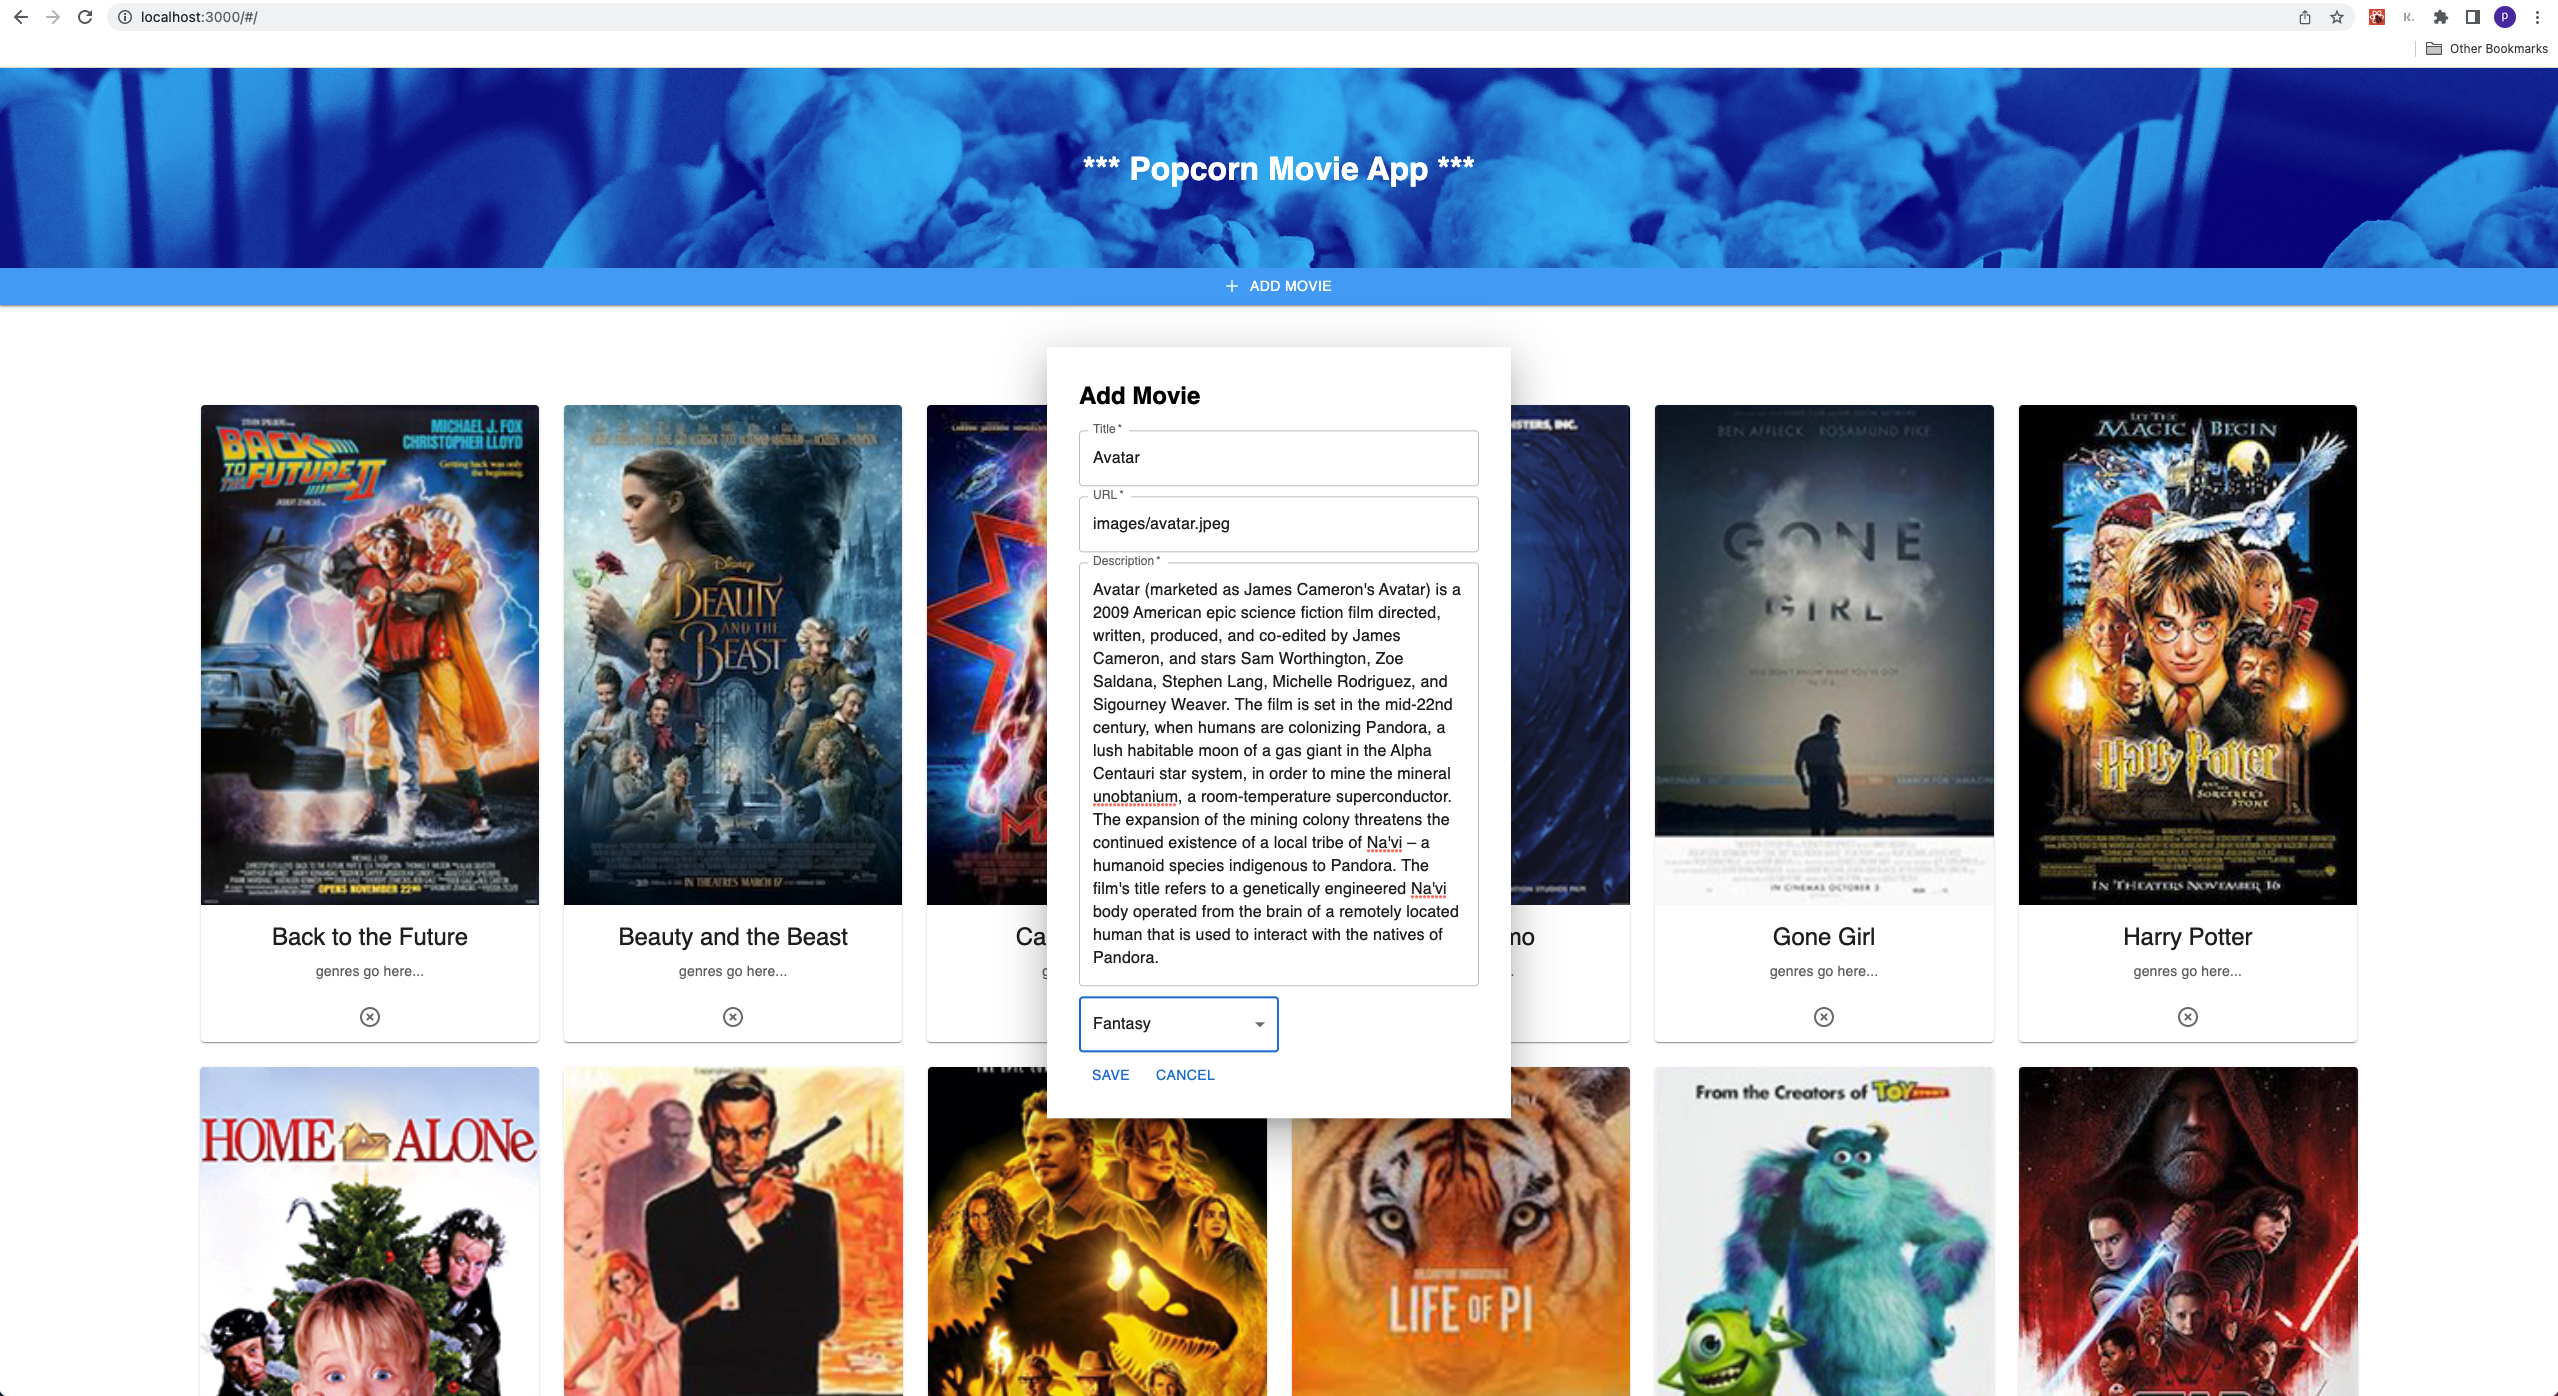
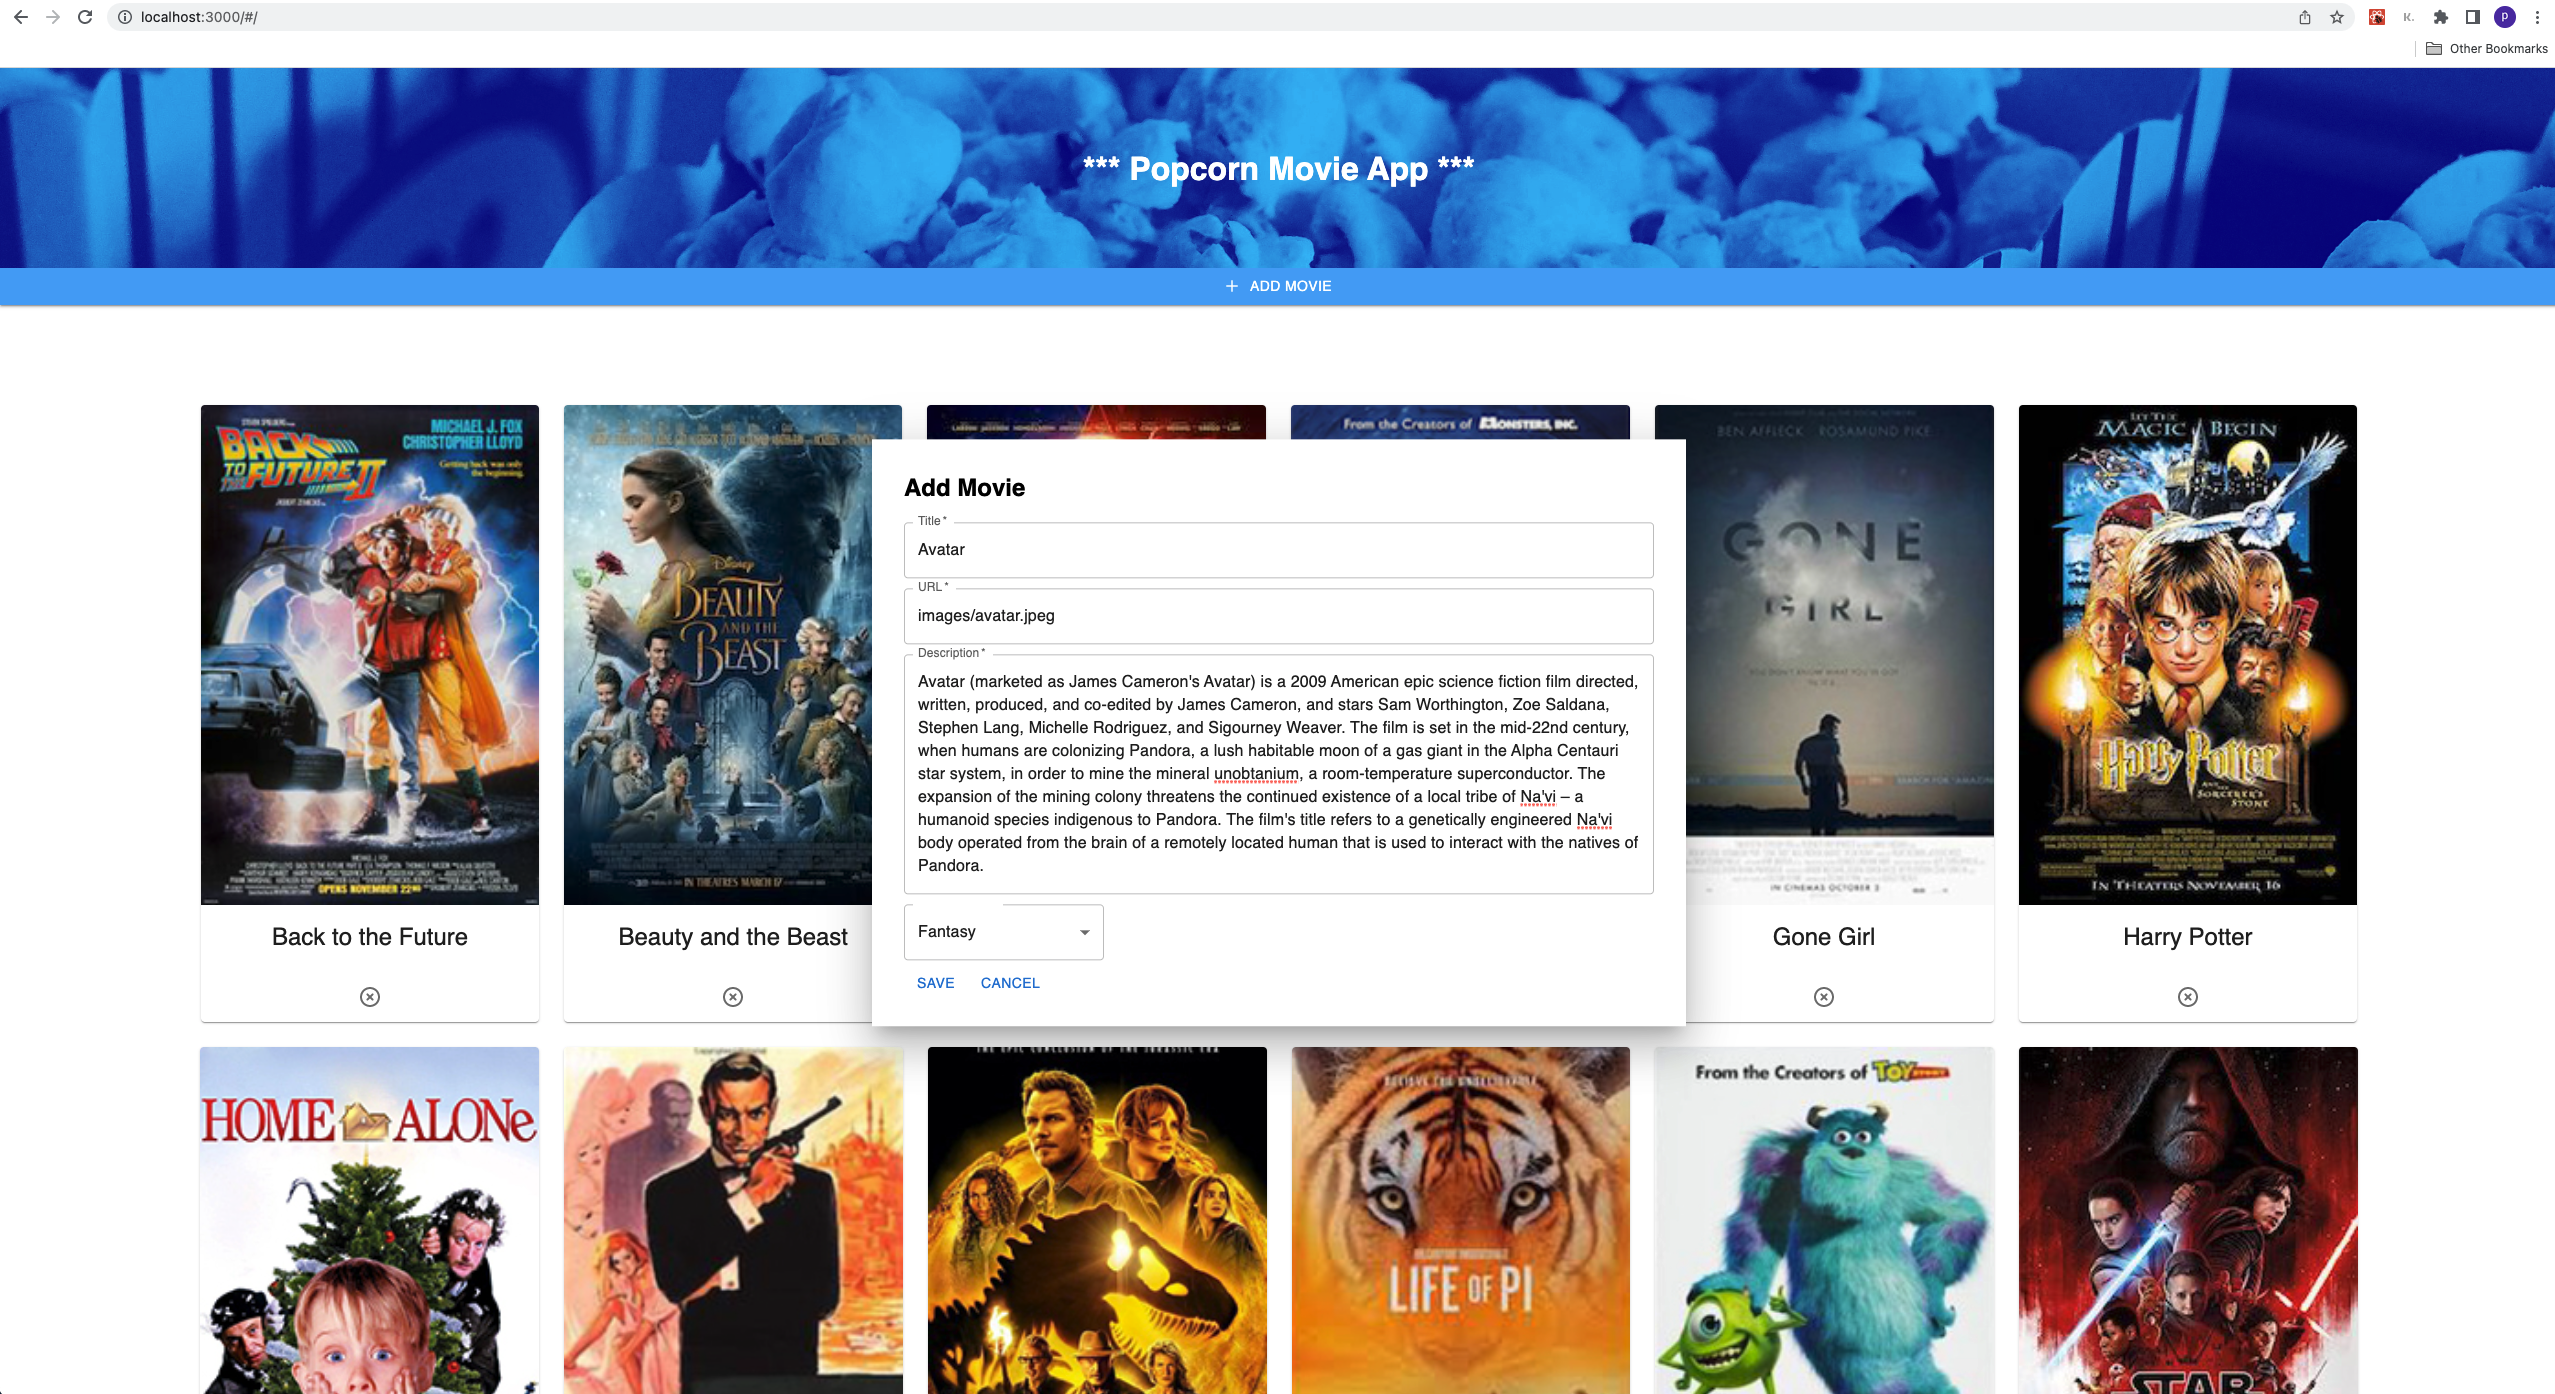
styled details and edits views, added screenshots, and updated readme

diff --git a/src/components/MovieDetails/MovieDetails.jsx b/src/components/MovieDetails/MovieDetails.jsx
@@ -7,6 +7,7 @@ import EditMovieButton from '../EditMovieForm/EditMovieButton';
 // Material-UI
 import { Box, TextField } from '@mui/material';
 import Modal from '@mui/material/Modal';
+import Button from '@mui/material/Button';
 
 const style = {
     position: 'absolute',
@@ -64,35 +65,43 @@ function MovieDetails() {
             hideBackdrop
             open={open}
             onClose={handleClose}
-            aria-labelledby="child-modal-title"
-            aria-describedby="child-modal-description"
+            aria-labelledby="parent-modal-title"
+            aria-describedby="parent-modal-description"
         >
             <Box sx={{ ...style, width: 750 }}>
                 <div className="details-container">
                     <div className="title-poster">
-                        <h3>{details.title}</h3>
+                        {/* <h3>{details.title}</h3> */}
                         <img
                             src={details.poster}
                             alt={details.title}
                         />
                     </div>
-
-                    {/* TODO: render this on one line */}
-                    <div>
-                        {genres.map((each, i) => (
-                            <p key={i} className="genre-item">{each.name}</p>
-                        ))}
-                    </div>
-                    <div className="description">
-                        <p>{details.description}</p>
-                    </div>
-                    <div className="back-btn">
+                    <div className="genre-description">
+                        {/* TODO: render this on one line and palette matches buttons */}
+                        <div className="genre-container">
+                            {genres.map((each, i) => (
+                                <p key={i} className="genre-item">{each.name}</p>
+                            ))}
+                        </div>
+                        <div>
+                            <p>{details.description}</p>
+                        </div>
+                        {/* <div className="back-btn">
                         <button onClick={() => history.push('/')} style={{ marginRight: 5 }}>Back To List</button>
+                    </div> */}
                     </div>
-                    <div className="edit-btn">
-                        {/* <button onClick={() => updateMovie(details.id)}>Edit</button> */}
-                        <EditMovieButton details={details.id} updateMovie={updateMovie} />
-                    </div>
+                </div>
+                <div className="buttons-container">
+                    <Button
+                        onClick={() => history.push('/')}
+                        style={{ marginRight: 5, marginBottom: 5 }}
+                        variant="contained"
+                    >
+                        Back To List
+                    </Button>
+                    {/* <button onClick={() => updateMovie(details.id)}>Edit</button> */}
+                    <EditMovieButton details={details.id} updateMovie={updateMovie} />
                 </div>
             </Box>
         </Modal>

diff --git a/src/components/EditMovieForm/EditMovieButton.jsx b/src/components/EditMovieForm/EditMovieButton.jsx
@@ -9,7 +9,7 @@ const style = {
     top: '50%',
     left: '50%',
     transform: 'translate(-50%, -50%)',
-    width: 400,
+    width: 750,
     bgcolor: 'background.paper',
     // border: '2px solid #000',
     boxShadow: 24,
@@ -32,15 +32,8 @@ function EditMovieButton() {
         <div>
             <Button
                 onClick={handleOpen}
-            // sx={{
-            //     borderRadius: 0,
-            //     backgroundColor: 'primary.light',
-            //     ':hover': {
-            //         bgcolor: 'primary.dark',
-            //     }
-            // }}
-            // variant="contained"
-            // startIcon={<AddIcon />}
+                variant="contained"
+                color="secondary"
             >
                 Edit
             </Button>
@@ -52,7 +45,7 @@ function EditMovieButton() {
                     aria-labelledby="child-modal-title"
                     aria-describedby="child-modal-description"
                 >
-                    <Box sx={{ ...style, width: 400 }}>
+                    <Box sx={{ ...style, width: 750 }}>
                         <h2 id="child-modal-title">Make Edits</h2>
                         <EditMovieForm handleClose={handleClose} />
                         {/* <Button onClick={handleClose}>Cancel</Button> */}

diff --git a/src/components/AddMovieForm/AddMovieButton.jsx b/src/components/AddMovieForm/AddMovieButton.jsx
@@ -12,7 +12,7 @@ const style = {
     top: '50%',
     left: '50%',
     transform: 'translate(-50%, -50%)',
-    width: 400,
+    width: 750,
     bgcolor: 'background.paper',
     // border: '1px solid #000',
     boxShadow: 24,
@@ -70,7 +70,7 @@ function AddMovieButton() {
                     aria-labelledby="child-modal-title"
                     aria-describedby="child-modal-description"
                 >
-                    <Box sx={{ ...style, width: 400 }}>
+                    <Box sx={{ ...style, width: 750 }}>
                         <h2 id="child-modal-title">Add Movie</h2>
                         {/* <p id="child-modal-description">
                             Lorem ipsum, dolor sit amet consectetur adipisicing elit.

diff --git a/src/components/EditMovieForm/EditMovieForm.jsx b/src/components/EditMovieForm/EditMovieForm.jsx
@@ -137,9 +137,9 @@ function EditMovie({ handleClose }) {
                     ))}
                 </select><br /> */}
                 {/* <input type="submit" value="Save" style={{ marginRight: 5 }} /> */}
-                <Button type="submit" value="Save" style={{ marginRight: 5 }}>Save</Button>
+                <Button type="submit" value="Save" style={{ marginRight: 5 }} variant="contained" color="secondary">Save</Button>
                 {/* <Button onClick={() => history.push(`/details/${details.id}`)}>Cancel</Button> */}
-                <Button onClick={handleClose}>Cancel</Button>
+                <Button onClick={handleClose} variant="contained" color="secondary">Cancel</Button>
 
             </form>
         </div>

diff --git a/src/components/AddMovieForm/AddMovieForm.jsx b/src/components/AddMovieForm/AddMovieForm.jsx
@@ -126,7 +126,7 @@ function AddMovieForm({ handleClose }) {
                     required
                     labelId="demo-simple-select-label"
                     id="demo-simple-select"
-                    // label="Select Genre"
+                    label="Select Genre"
                     onChange={(event) => setNewMovie({ ...newMovie, genre_id: event.target.value })}
                     style={{ marginBottom: 5 }}
                     sx={{ width: 200 }}

diff --git a/src/components/MovieDetails/MovieDetails.css b/src/components/MovieDetails/MovieDetails.css
@@ -12,3 +12,29 @@
     border-radius: 25px;
     font-size: small;
 }
+
+.buttons-container {
+    display: flex;
+    flex-flow: row;
+    justify-content: flex-end;
+}
+
+.details-container {
+    display: flex;
+    flex-direction: row;
+    margin-bottom: 10px;
+}
+
+.genre-description {
+    margin-left: 20px;
+}
+
+.genre-container {
+    display: flex;
+    flex-direction: row;
+    justify-content: flex-start;
+}
+
+.genre-item {
+    margin-right: 5px;
+}

diff --git a/README.md b/README.md
@@ -52,8 +52,14 @@ Suspendisse euismod volutpat aliquet. Maecenas vulputate mauris in pellentesque 
 ![Home](/public/images/home-view.jpg)
 <br /><br />
 
+![Movie Details](/public/images/movie-details-view.jpg)
+<br /><br />
+
+![Edit Movie Details](/public/images/edit-movie-details-view.jpg)
+<br /><br />
+
 ![Add Movie](/public/images/add-movie-view.jpg)
-<br />
+<br /><br />
 
 <!-- [Giphy API]() -->
 <br /> 
